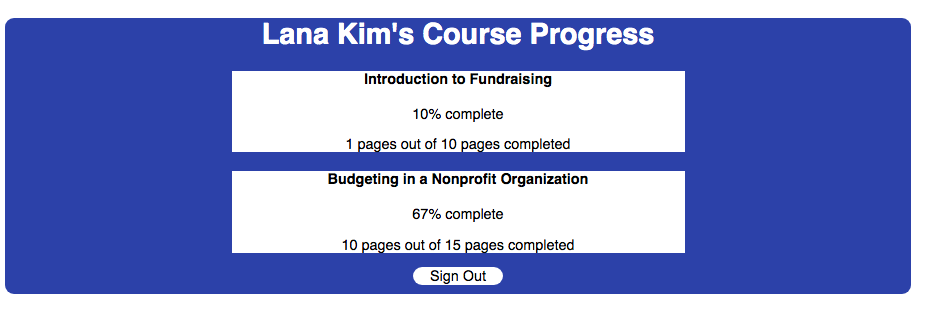
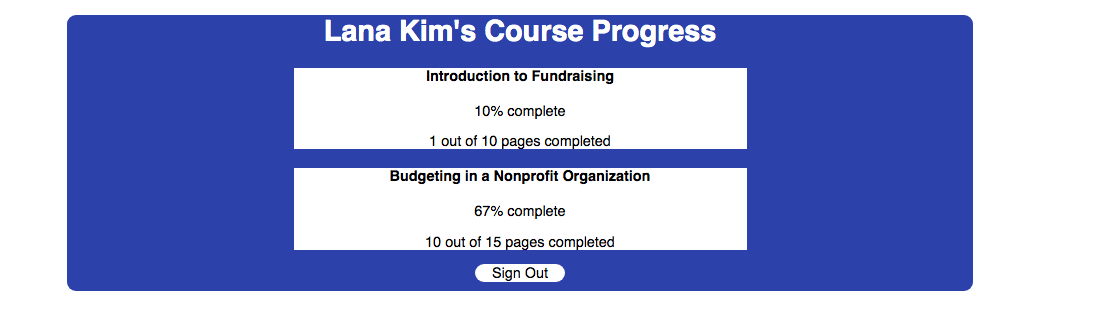
fix: wording of notification

diff --git a/client/components/courseInfoTile.js b/client/components/courseInfoTile.js
@@ -13,7 +13,7 @@ const CourseInfoTile = (props) => {
 			<h4>{course.name}</h4>
 			<p>{percentage(course.status.currentPage, course.pages)}% complete</p>
 			<p>
-				{course.status.currentPage} pages out of {course.pages} pages completed
+				{course.status.currentPage} out of {course.pages} pages completed
 			</p>
 		</div>
 	);

diff --git a/README.md b/README.md
@@ -12,7 +12,7 @@
 
 The user's homepage displays a list of notifications. Users receive notifications if they still need to complete a course.
 
-<img src="./public/homepage.png" alt="product screenshot" height="200">
+<img src="./public/homepage.png" alt="product screenshot" height="250">
 
 ## Technologies
 
